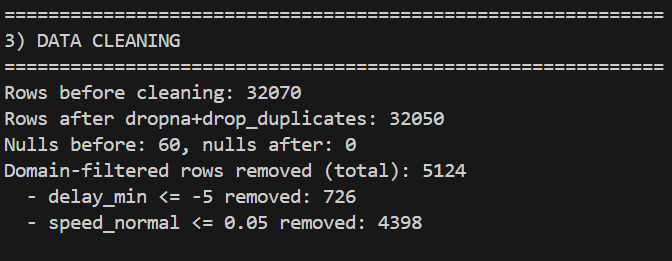
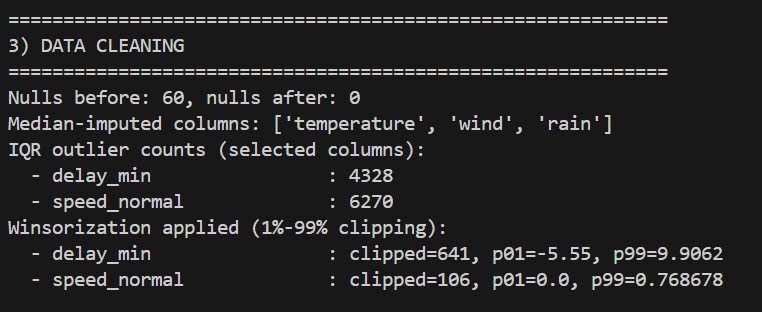
Refactor data cleaning

diff --git a/data_analysis.py b/data_analysis.py
@@ -126,8 +126,6 @@ def clean_data(df: pd.DataFrame) -> tuple[pd.DataFrame, dict]:
     columns_to_check_iqr = [
         "delay_min",
         "speed_normal",
-        "distance_km",
-        "duration_normal_min",
     ]
 
     iqr_outlier_counts_selected: dict[str, int] = {}
@@ -167,8 +165,6 @@ def clean_data(df: pd.DataFrame) -> tuple[pd.DataFrame, dict]:
             "values_clipped": changed_count,
         }
 
-    print(f"Rows before cleaning: {before_rows}")
-    print(f"Rows after median-imputation+drop_duplicates: {after_rows}")
     print(f"Nulls before: {before_null}, nulls after: {after_null}")
     print(f"Median-imputed columns: {median_imputed_cols if median_imputed_cols else 'None'}")
     if iqr_outlier_counts_selected:
@@ -182,7 +178,6 @@ def clean_data(df: pd.DataFrame) -> tuple[pd.DataFrame, dict]:
                 f"  - {col:25}: clipped={info['values_clipped']}, "
                 f"p01={info['p01']}, p99={info['p99']}"
             )
-    print("IQR row removal: disabled")
 
     summary = {
         "rows_before": before_rows,
